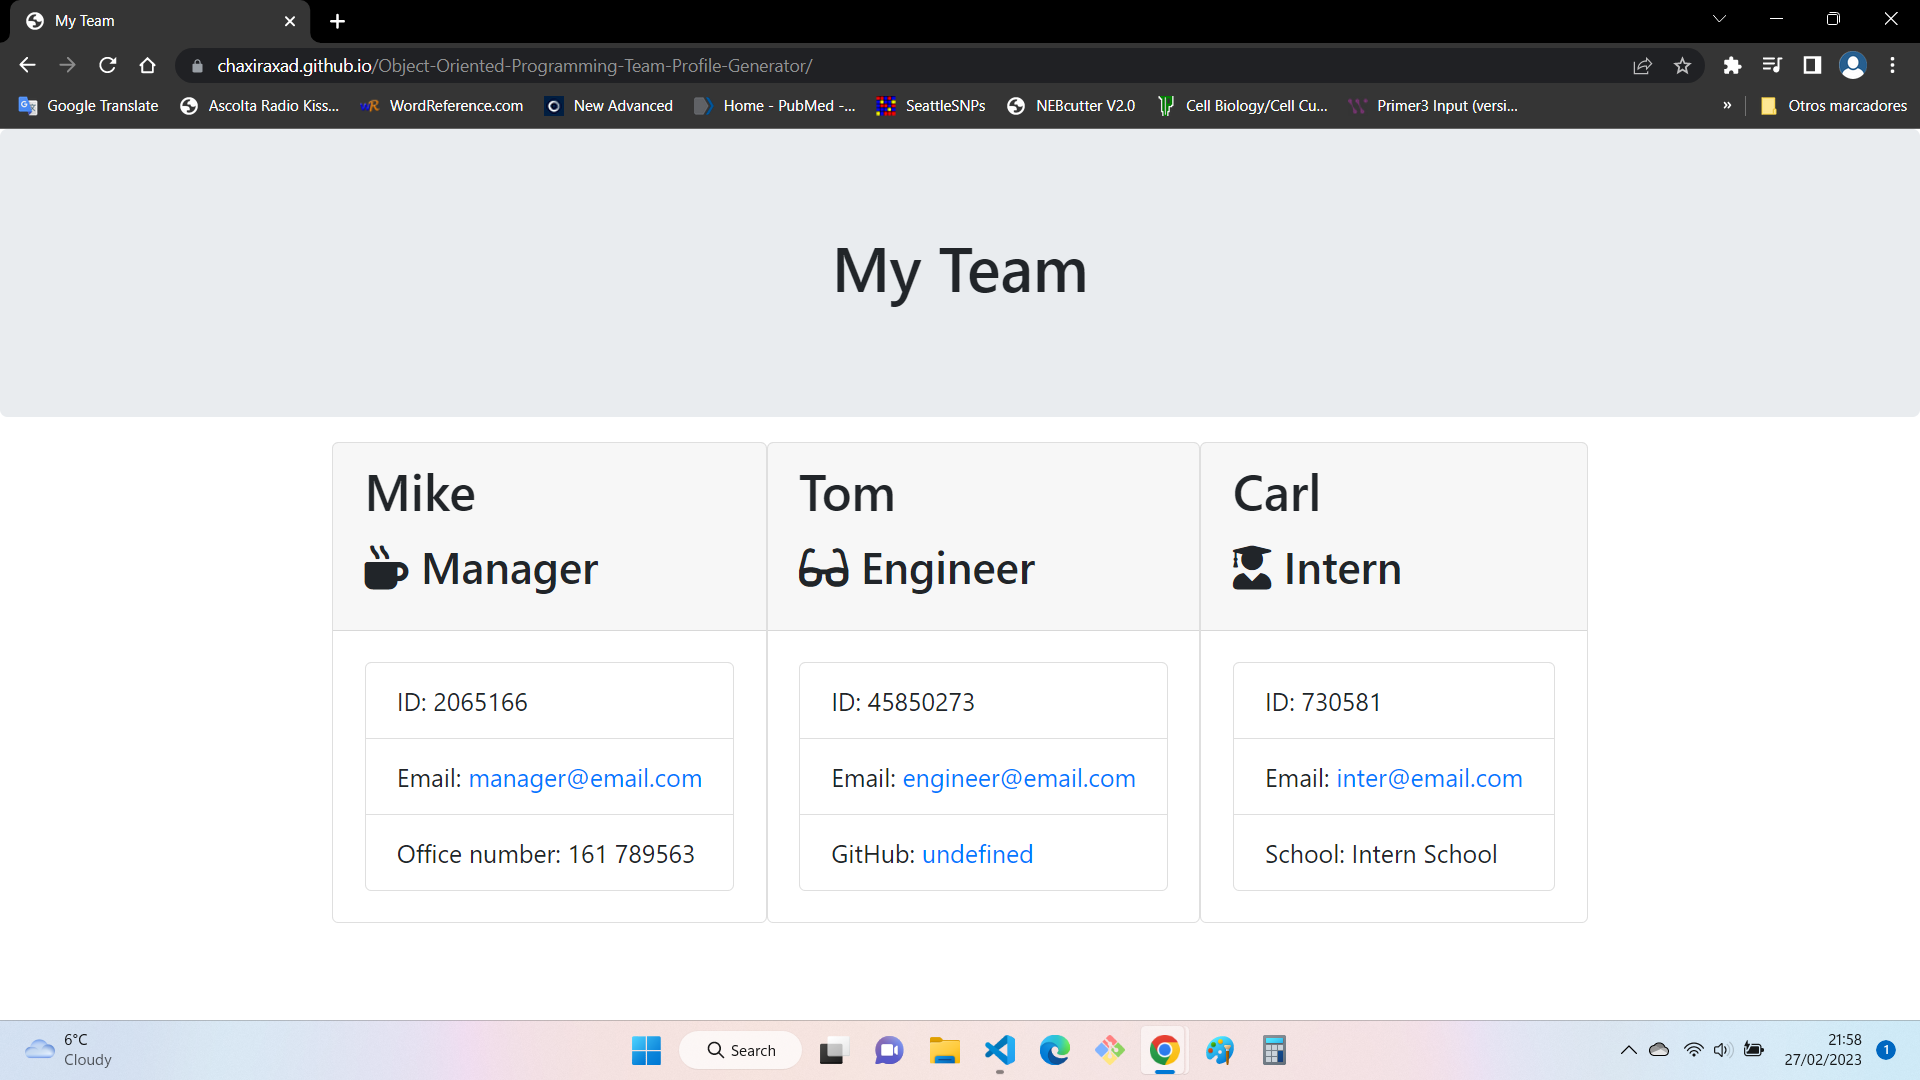
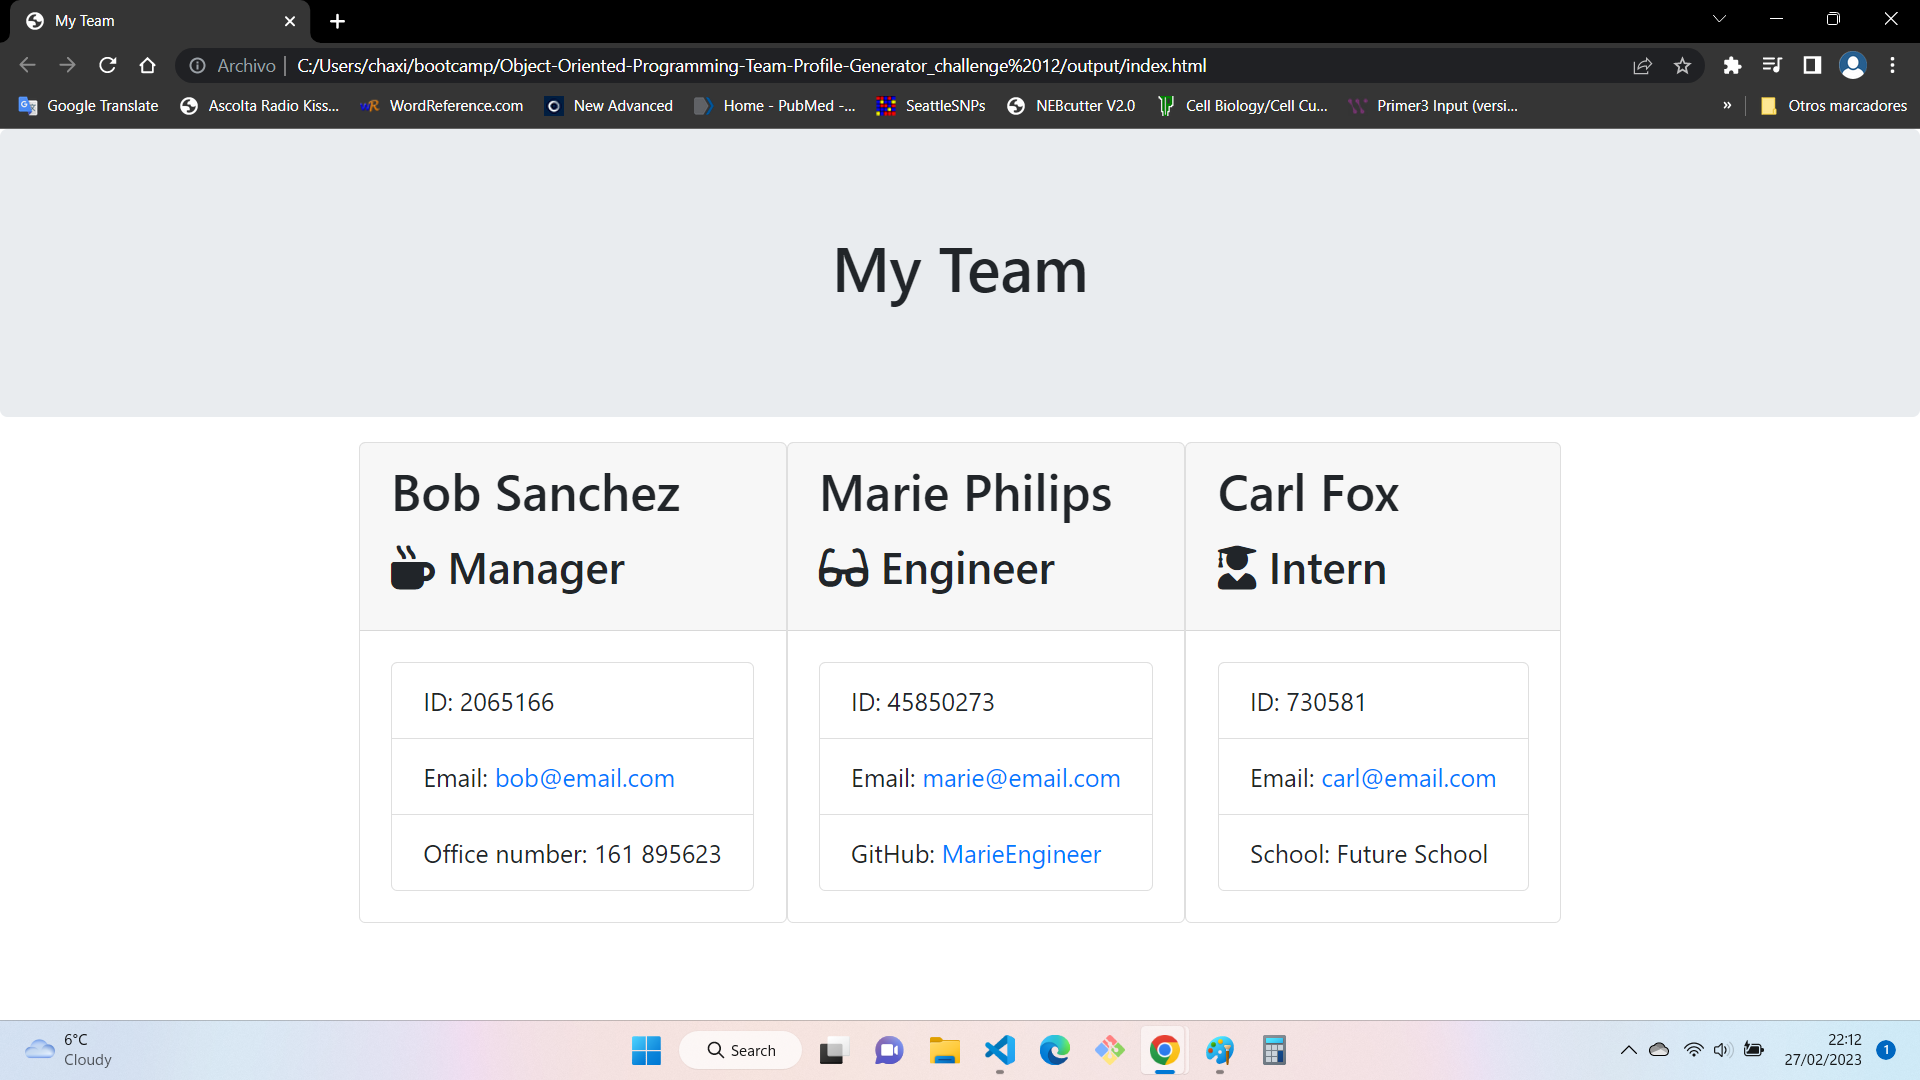
this commit fix bug for Engineer GitHub chages html file name in js and add a fixed but image on README file

diff --git a/output/index.html b/output/index.html
@@ -27,42 +27,42 @@
                 
         <div class="card employee-card">
         <div class="card-header">
-            <h2 class="card-title">Mike</h2>
+            <h2 class="card-title">Bob Sanchez</h2>
             <h3 class="card-title"><i class="fas fa-mug-hot mr-2"></i>Manager</h3>
         </div>
         <div class="card-body">
             <ul class="list-group">
                 <li class="list-group-item">ID: 2065166</li>
-                <li class="list-group-item">Email: <a href="mailto:manager@email.com">manager@email.com</a></li>
-                <li class="list-group-item">Office number: 161 789563</li>
+                <li class="list-group-item">Email: <a href="mailto:bob@email.com">bob@email.com</a></li>
+                <li class="list-group-item">Office number: 161 895623</li>
             </ul>
         </div>
     </div>
         
         <div class="card employee-card">
     <div class="card-header">
-        <h2 class="card-title">Tom</h2>
+        <h2 class="card-title">Marie Philips</h2>
         <h3 class="card-title"><i class="fas fa-glasses mr-2"></i>Engineer</h3>
     </div>
     <div class="card-body">
         <ul class="list-group">
             <li class="list-group-item">ID: 45850273</li>
-            <li class="list-group-item">Email: <a href="mailto:engineer@email.com">engineer@email.com</a></li>
-            <li class="list-group-item">GitHub: <a href="https://github.com/undefined" target="_blank" rel="noopener noreferrer">undefined</a></li>
+            <li class="list-group-item">Email: <a href="mailto:marie@email.com">marie@email.com</a></li>
+            <li class="list-group-item">GitHub: <a href="https://github.com/MarieEngineer" target="_blank" rel="noopener noreferrer">MarieEngineer</a></li>
         </ul>
     </div>
 </div>
         
         <div class="card employee-card">
     <div class="card-header">
-        <h2 class="card-title">Carl</h2>
+        <h2 class="card-title">Carl Fox</h2>
         <h3 class="card-title"><i class="fas fa-user-graduate mr-2"></i>Intern</h3>
     </div>
     <div class="card-body">
         <ul class="list-group">
             <li class="list-group-item">ID: 730581</li>
-            <li class="list-group-item">Email: <a href="mailto:inter@email.com">inter@email.com</a></li>
-            <li class="list-group-item">School: Intern School</li>
+            <li class="list-group-item">Email: <a href="mailto:carl@email.com">carl@email.com</a></li>
+            <li class="list-group-item">School: Future School</li>
         </ul>
     </div>
 </div>
@@ -70,7 +70,6 @@
             </div>
         </div>
     </div>
-    <script src="index.js"></script>
 </body>
 </html>
     

diff --git a/index.js b/index.js
@@ -6,11 +6,11 @@ const path = require("path");
 const fs = require("fs");
 
 const OUTPUT_DIR = path.resolve(__dirname, "output");
-const outputPath = path.join(OUTPUT_DIR, "team.html");
+const outputPath = path.join(OUTPUT_DIR, "index.html");
 
 const render = require("./page-template.js");
 
-// TODO: Write Code to gather information about the development team members, and render the HTML file.
+// TODO: Write Code to gather information about the development  members, and render the HTML file.
 function createEngineer(team) {
     inquirer.prompt([
         // Engineer
@@ -31,7 +31,7 @@ function createEngineer(team) {
         },
         {
             type: 'input',
-            name: 'GitHubusername',
+            name: 'github',
             message: "What is the engineer's GitHub username?",
         }
     ]).then((engineerDetails) => {
